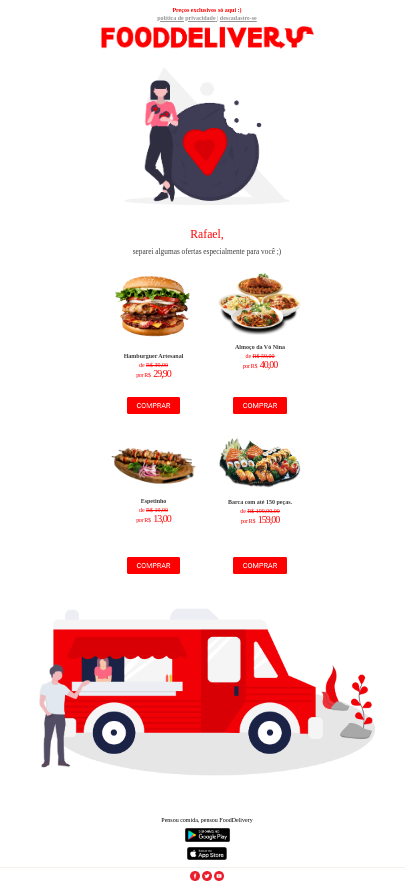
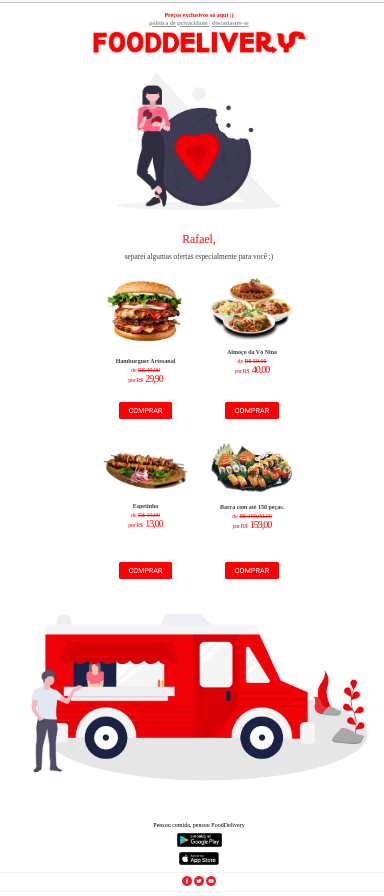
Atualizando escala das imagens.

diff --git a/README.md b/README.md
@@ -5,16 +5,16 @@
 - Este é um template para confirmação de pedidos para restaurantes, baseado no template do iFood.
   
 <p align="center">
-  <img width="562" height="100%" src="img/email-confirmation.png">
+  <img src="img/email-confirmation.png">
 </p>
 
 Um exemplo utilizando FreeMarker(uma biblioteca Java para gerar saída de texto de páginas da Web em HTML, emails dentre outros) pode ser encontrado [aqui](https://github.com/RafaelOFreitas/food-delivery/blob/master/src/main/resources/templates/order-confirmed.html).
 
 ## [Exemplo-2](ex-2/email-marketing.html)
 
-- Este é um template para e-mail marketing ou publicidade por correio eletrónico é a utilização do e-mail como ferramenta de marketing direto.
+- Este é um template para e-mail marketing ou publicidade por correio eletrônico.
 - Baseado nos emails de marketing que recebo frequentemente :smile:
   
 <p align="center">
-  <img width="562" height="100%" src="img/email-marketing.png">
+  <img  src="img/email-marketing.png">
 </p>
